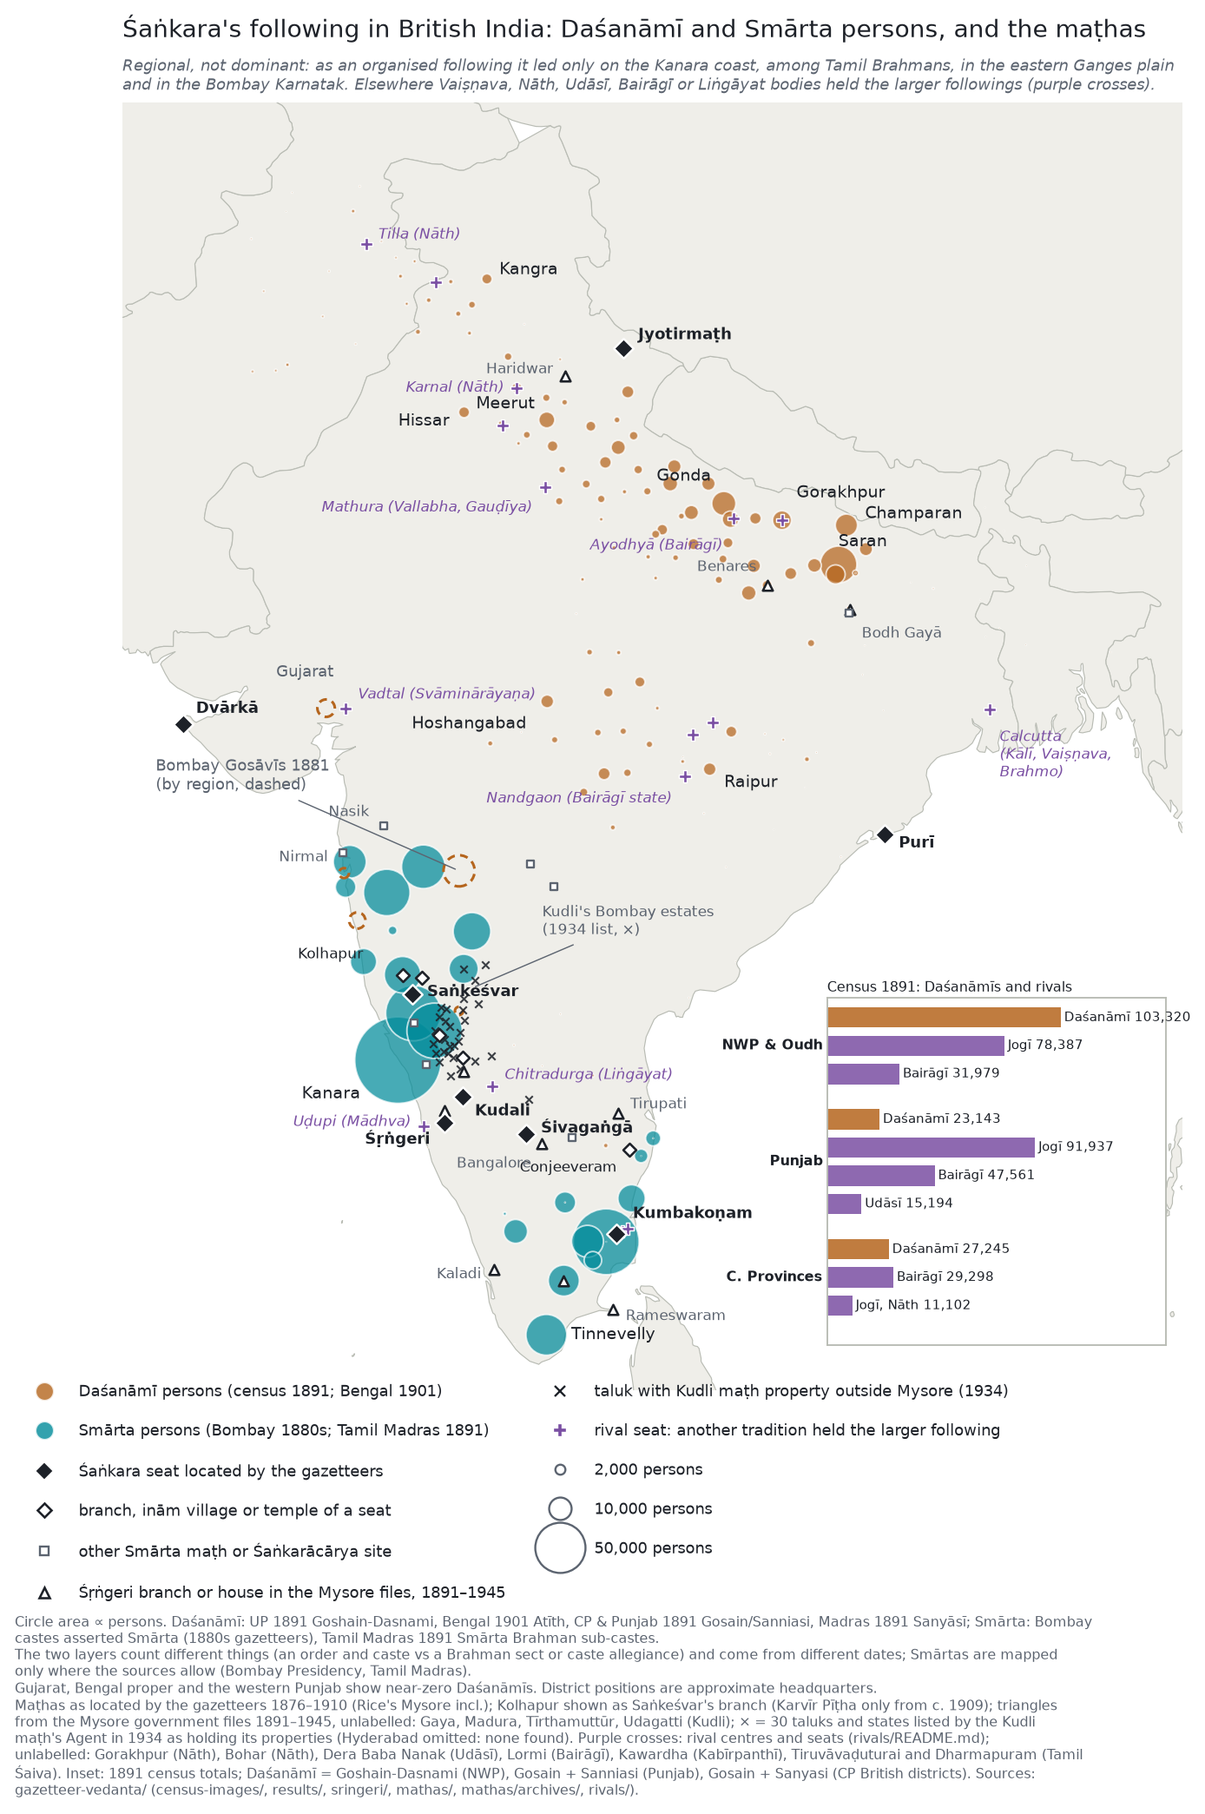
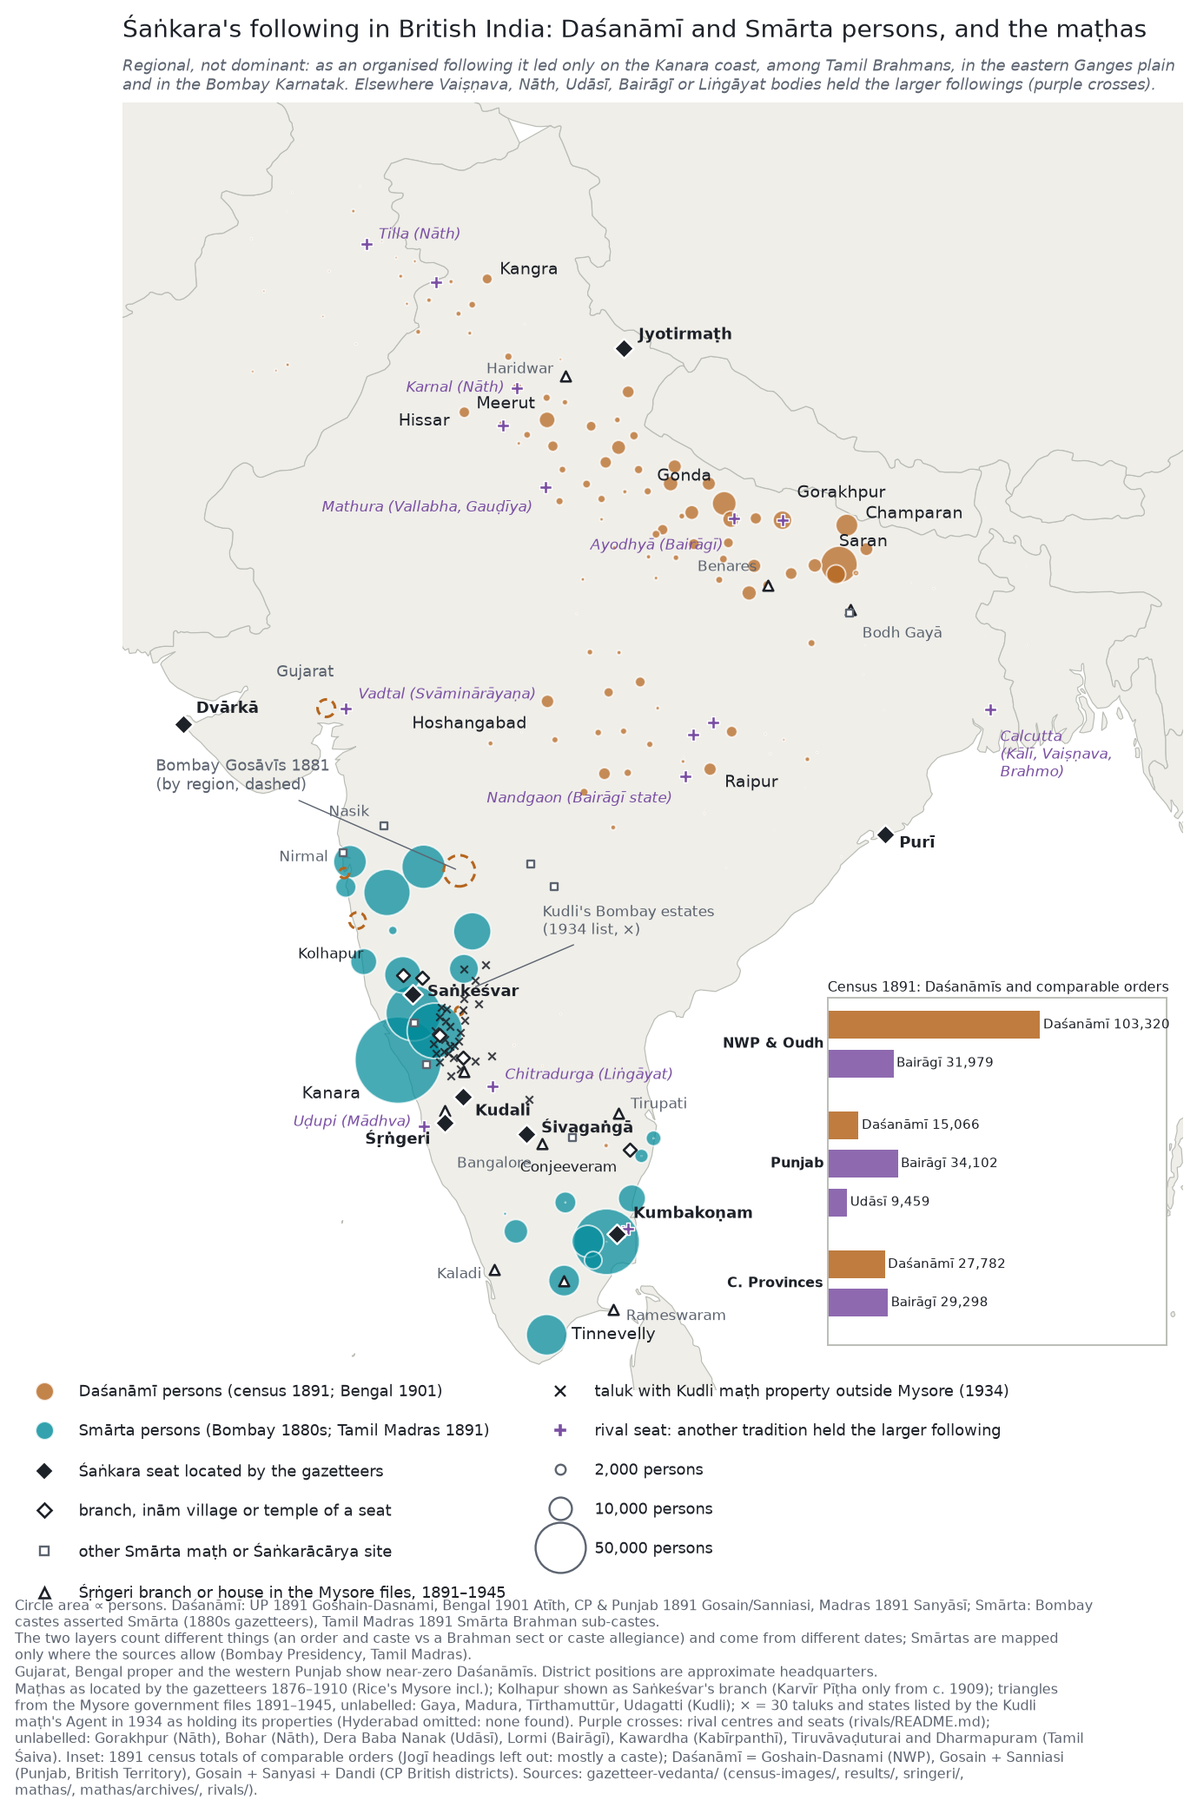
gazetteer-vedanta: the census 'Jogī' heading is no longer compared with the Daśanāmīs (study 2: mostly a householder caste, half Muslim in the Punjab; the Nāth order cannot be separated from it). Evidence 3 table on the page and in SYNTHESIS.md compares only orders of the same kind (Bairāgī, Udāsī),

diff --git a/gazetteer-vedanta/SYNTHESIS.html b/gazetteer-vedanta/SYNTHESIS.html
@@ -146,7 +146,7 @@ code{font-size:.85em}
   </table></div>
   <figure class="map">
     <a href="map/combined_map.png"><img src="map/combined_map.png" alt="Map of British India. Ochre circles for Daśanāmī persons form a belt across the Ganges plain, largest in eastern UP and Bihar, thin in the Central Provinces and the Punjab. Teal circles for Smārta persons cluster on the Bombay Konkan and Karnatak, largest in Kanara and Dharwar, and in the Tamil delta. Diamonds mark the Śaṅkara seats; crosses mark Kudli's estates and the rival seats." loading="lazy"></a>
-    <figcaption>All six regions on one map; circle area is proportional to persons. <em class="ochre">Daśanāmīs</em> come from the census (UP, Punjab, CP and Madras 1891; Bengal 1901; Bombay 1881 by region only, dashed). <em class="teal">Smārtas</em> come from Bombay castes the gazetteers call Smārta and from Tamil Smārta Brahman sub-castes (1891); they are mapped only where the sources allow. Black diamonds mark the Śaṅkara seats, open diamonds their branches and inām villages, triangles Śṛṅgeri’s branch maṭhs in the Mysore files. Small crosses mark the 30 taluks and states where the Kudli maṭh held property in 1934. Purple crosses mark the rival seats named below. The inset compares the 1891 census totals for the Daśanāmīs, Jogīs, Bairāgīs and Udāsīs. Positions are approximate district headquarters.</figcaption>
+    <figcaption>All six regions on one map; circle area is proportional to persons. <em class="ochre">Daśanāmīs</em> come from the census (UP, Punjab, CP and Madras 1891; Bengal 1901; Bombay 1881 by region only, dashed). <em class="teal">Smārtas</em> come from Bombay castes the gazetteers call Smārta and from Tamil Smārta Brahman sub-castes (1891); they are mapped only where the sources allow. Black diamonds mark the Śaṅkara seats, open diamonds their branches and inām villages, triangles Śṛṅgeri’s branch maṭhs in the Mysore files. Small crosses mark the 30 taluks and states where the Kudli maṭh held property in 1934. Purple crosses mark the rival seats named below. The inset compares the 1891 census totals for the Daśanāmīs, Bairāgīs and Udāsīs. Positions are approximate district headquarters.</figcaption>
   </figure>
   <p class="src">Why the tradition can look dominant: Advaita was the philosophy of the learned (“Vedantism … almost exclusively prevails” in Benares, 1909), the four-seat scheme made it pan-Indian in name, and “Smārta” and “Śaiva” were broad default labels. The 1901 Bombay census puts “Shaiv or Smart” at nearly 3,000,000, but that is a sect label, not allegiance to a seat.</p>
 </section>
@@ -154,20 +154,20 @@ code{font-size:.85em}
 <section>
   <div class="step">Evidence 3 · How many</div>
   <h2>The census numbers, and the rivals in the same tables</h2>
-  <p>No census measured allegiance to a seat. What the censuses did count were the Daśanāmī orders and the other ascetic orders, often in the same table. Each figure below was read from the page images and checked against the printed totals.</p>
+  <p>No census measured allegiance to a seat. What the censuses did count were the Daśanāmī orders and the other ascetic orders, often in the same table. The table compares the Daśanāmīs only with orders of the same kind: renunciants with married, landholding offshoots. Each figure below was read from the page images and checked against the printed totals.</p>
   <div class="tablewrap"><table>
-    <thead><tr><th>Census</th><th>Daśanāmī</th><th>Rival orders in the same table</th></tr></thead>
+    <thead><tr><th>Census</th><th>Daśanāmī</th><th>Comparable orders in the same table</th></tr></thead>
     <tbody>
-      <tr><td>NWP and Oudh 1891</td><td class="num">103,320</td><td class="num">Jogī 78,387; Bairāgī 31,979</td></tr>
-      <tr><td>Punjab 1891 (British Territory)</td><td class="num">Gosain 9,903; Sanniasi 5,163</td><td class="num">“Jogi &amp; Rawal” 75,469 (36,718 of them Muslim); Bairāgī 34,102; Udāsī 9,459</td></tr>
-      <tr><td>Central Provinces 1891</td><td class="num">Gosain 24,796</td><td class="num">Bairāgī 29,298; Jogī 6,094; Nāth 5,008</td></tr>
+      <tr><td>NWP and Oudh 1891</td><td class="num">103,320</td><td class="num">Bairāgī 31,979</td></tr>
+      <tr><td>Punjab 1891 (British Territory)</td><td class="num">Gosain 9,903; Sanniasi 5,163</td><td class="num">Bairāgī 34,102; Udāsī 9,459</td></tr>
+      <tr><td>Central Provinces 1891</td><td class="num">Gosain 24,796; Sanyāsī 2,449; Daṇḍī 537</td><td class="num">Bairāgī 29,298</td></tr>
       <tr><td>Bengal 1901</td><td class="num">Atīth 50,042</td><td>“Gosain” 29,534, a mixed column, largely Vaiṣṇava</td></tr>
       <tr><td>Tamil Madras 1891</td><td class="num">Smārta 47.6% of Brahmans</td><td class="num">Aiyaṅgār (Śrīvaiṣṇava) 22.7%</td></tr>
     </tbody>
   </table></div>
   <ul class="list">
-    <li><strong>The Bairāgīs outnumber the Daśanāmīs</strong> in the Punjab and the Central Provinces. In the whole Punjab province, native states included, the Udāsīs (15,194) also exceed the Gosains (13,344).</li>
-    <li><strong>“Jogī” is the largest heading in the north, but it is not a body of Nāth ascetics.</strong> In the Punjab about half of it was Muslim. In the UP the gazetteers describe Jogīs more often as a householder caste (see the companion study, <i>Yogis in the Gazetteers</i>).</li>
+    <li><strong>The Bairāgīs outnumber the Daśanāmīs</strong> in the Punjab and the Central Provinces; only in the NWP and Oudh are the Daśanāmīs ahead, by about three to one. In the whole Punjab province, native states included, the Udāsīs (15,194) also exceed the Gosains (13,344).</li>
+    <li><strong>The census “Jogī” is left out.</strong> It is the largest of these headings in the north, but it was mostly a householder caste, not the Nāth order: in the Punjab about half of it was Muslim, and in the UP the gazetteers describe Jogīs more often as a caste (see the companion study, <i>Yogis in the Gazetteers</i>). The Nāth order cannot be separated from it, so it is not compared here.</li>
     <li><strong>The headings are loose and include householders on both sides.</strong> The 1891 NWP report says enumerators used “Goshain, Bairagi, Jogi, Saniyasi” interchangeably. In 1891 Azamgarh returns no Gosāins but 5,764 Jogīs, where in 1881 it had 2,186 Gosāins and 3,456 Atīths.</li>
     <li><strong>The Tamil figure needed reconstruction.</strong> The census row labelled “Smarta” has only 7,021 persons, because Tamil Smārtas were returned under sub-caste names; the 48% counts the sub-castes Thurston lists as Smārta.</li>
   </ul>

diff --git a/gazetteer-vedanta/map/plot_combined.py b/gazetteer-vedanta/map/plot_combined.py
@@ -260,11 +260,13 @@ ax.annotate("Bombay Gosāvīs 1881\n(by region, dashed)", (75.6, 19.0), xytext=(
 
 ax.annotate("Gujarat", (72.4, 22.6), xytext=(71.2, 23.3), fontsize=7.5, color=MUTED, zorder=6)
 # Inset: census 1891 totals of the Daśanāmīs and rival ascetic orders (census-images/README.md, "Rival orders").
-# Daśanāmī = Goshain-Dasnami (NWP), Gosain + Sanniasi (Punjab, whole province), Gosain + Sanyasi (CP British districts).
+# Daśanāmī = Goshain-Dasnami (NWP), Gosain + Sanniasi (Punjab, British Territory), Gosain + Sanyasi + Dandigan + Dandi
+# (CP British districts). Only comparable orders (renunciants with married, landholding offshoots): the Jogī and Nāth
+# headings are left out, since in these tables "Jogi" was mostly a householder caste (yoga-gazetteers, section 2).
 RIVAL_TOTALS = [
-    ("NWP & Oudh", [("Daśanāmī", 103320), ("Jogī", 78387), ("Bairāgī", 31979)]),
-    ("Punjab", [("Daśanāmī", 23143), ("Jogī", 91937), ("Bairāgī", 47561), ("Udāsī", 15194)]),
-    ("C. Provinces", [("Daśanāmī", 27245), ("Bairāgī", 29298), ("Jogī, Nāth", 11102)]),
+    ("NWP & Oudh", [("Daśanāmī", 103320), ("Bairāgī", 31979)]),
+    ("Punjab", [("Daśanāmī", 15066), ("Bairāgī", 34102), ("Udāsī", 9459)]),
+    ("C. Provinces", [("Daśanāmī", 27782), ("Bairāgī", 29298)]),
 ]
 ins = ax.inset_axes([0.665, 0.035, 0.32, 0.27])
 ins.set_facecolor("white")
@@ -276,11 +278,11 @@ for prov, bars in RIVAL_TOTALS:
         yy -= 1
     ins.text(-2000, yy + len(bars) / 2 + 0.5, prov, ha="right", va="center", fontsize=6.8, color=INK, fontweight="bold")
     yy -= 0.6
-ins.set_xlim(0, 150000); ins.set_ylim(yy + 0.2, 0.7)
+ins.set_xlim(0, 165000); ins.set_ylim(yy + 0.5, 0.7)
 ins.set_xticks([]); ins.set_yticks([])
 for sp in ins.spines.values():
     sp.set_color(EDGE)
-ins.set_title("Census 1891: Daśanāmīs and rivals", fontsize=6.8, color=INK, loc="left", pad=3)
+ins.set_title("Census 1891: Daśanāmīs and comparable orders", fontsize=6.8, color=INK, loc="left", pad=3)
 ax.set_xlim(67.5, 93.0); ax.set_ylim(7.5, 36.0); ax.set_aspect(1 / 0.92)
 ax.set_xticks([]); ax.set_yticks([])
 for s in ax.spines.values():
@@ -312,7 +314,7 @@ import textwrap
 FOOT = ("Circle area ∝ persons. Daśanāmī: UP 1891 Goshain-Dasnami, Bengal 1901 Atīth, CP & Punjab 1891 Gosain/Sanniasi, Madras 1891 Sanyāsī; Smārta: Bombay castes asserted Smārta (1880s gazetteers), Tamil Madras 1891 Smārta Brahman sub-castes.\nThe two layers count different things (an order and caste vs a Brahman sect "
          "or caste allegiance) and come from different dates; Smārtas are mapped only where the sources allow "
          "(Bombay Presidency, Tamil Madras).\nGujarat, Bengal proper and the western Punjab show near-zero Daśanāmīs. "
-         "District positions are approximate headquarters.\nMaṭhas as located by the gazetteers 1876–1910 (Rice's Mysore incl.); Kolhapur shown as Saṅkeśvar's branch (Karvīr Pīṭha only from c. 1909); triangles from the Mysore government files 1891–1945, unlabelled: Gaya, Madura, Tīrthamuttūr, Udagatti (Kudli); × = 30 taluks and states listed by the Kudli maṭh's Agent in 1934 as holding its properties (Hyderabad omitted: none found). Purple crosses: rival centres and seats (rivals/README.md); unlabelled: Gorakhpur (Nāth), Bohar (Nāth), Dera Baba Nanak (Udāsī), Lormi (Bairāgī), Kawardha (Kabīrpanthī), Tiruvāvaḍuturai and Dharmapuram (Tamil Śaiva). Inset: 1891 census totals; Daśanāmī = Goshain-Dasnami (NWP), Gosain + Sanniasi (Punjab), Gosain + Sanyasi (CP British districts). "
+         "District positions are approximate headquarters.\nMaṭhas as located by the gazetteers 1876–1910 (Rice's Mysore incl.); Kolhapur shown as Saṅkeśvar's branch (Karvīr Pīṭha only from c. 1909); triangles from the Mysore government files 1891–1945, unlabelled: Gaya, Madura, Tīrthamuttūr, Udagatti (Kudli); × = 30 taluks and states listed by the Kudli maṭh's Agent in 1934 as holding its properties (Hyderabad omitted: none found). Purple crosses: rival centres and seats (rivals/README.md); unlabelled: Gorakhpur (Nāth), Bohar (Nāth), Dera Baba Nanak (Udāsī), Lormi (Bairāgī), Kawardha (Kabīrpanthī), Tiruvāvaḍuturai and Dharmapuram (Tamil Śaiva). Inset: 1891 census totals of comparable orders (Jogī headings left out: mostly a caste); Daśanāmī = Goshain-Dasnami (NWP), Gosain + Sanniasi (Punjab, British Territory), Gosain + Sanyasi + Dandi (CP British districts). "
          "Sources: gazetteer-vedanta/ (census-images/, results/, sringeri/, mathas/, mathas/archives/, rivals/).")
 FOOT = "\n".join(textwrap.fill(par, 150) for par in FOOT.split("\n"))
 fig.text(0.02, 0.008, FOOT, fontsize=6.6, color=MUTED, va="bottom")

diff --git a/gazetteer-vedanta/census-images/README.md b/gazetteer-vedanta/census-images/README.md
@@ -22,7 +22,7 @@ not dominant**. These tables give the numbers behind it.
   - the Daśanāmīs are densest in eastern UP and Bihar (NWP 103,320 in 1891; Bengal Atīths 50,042 in 1901);
   - Smārtas are 48% of Tamil Brahmans (1891).
 - **Where it was a minority:**
-  - Jogīs (91,937) and Bairāgīs (47,561) far outnumber the Gosains and Sanniasis in the Punjab;
+  - Bairāgīs outnumber the Gosains and Sanniasis in the Punjab (34,102 against 15,066, British Territory);
   - Bairāgīs outnumber the Gosāins in the Central Provinces;
   - Bengal proper and Calcutta return almost no Sannyāsīs.
 - **The one presidency-wide Smārta figure** (Bombay 1901, "Shaiv or Smart" nearly 3,000,000) is a broad sect label,
@@ -81,7 +81,8 @@ not dominant**. These tables give the numbers behind it.
    - Gosain 9,903 (British territory): 91% in the Delhi division, Kangra and Simla (Hissar 2,318, Kangra
      1,912, Karnal 1,843).
    - Sanniasi 5,163, in a different belt: central Punjab (Hoshiarpur 825, Jalandhar 570, Amritsar 435).
-   - Both are dwarfed by Jogi & Rawal (75,469) and Bairagi (34,102).
+   - Both together are outnumbered by the Bairagis (34,102). The larger Jogi & Rawal heading (75,469) is mostly a
+     caste, not an order (see "Rival orders" below).
    - The sect table has almost no Śaṅkara labels: Smartak 123, Vedanti 232, Shankar Acharj 15.
 5. **Central Provinces 1891.**
    - Gosain 24,796, sub-divided Giri 9,333, Puri 6,050, Bharthi 1,412.
@@ -101,20 +102,22 @@ not dominant**. These tables give the numbers behind it.
 The tables read for the Daśanāmīs also count their rivals. All figures below are persons, recomputed from the TSVs
 in `results/`. The synthesis's "Evidence 3: how many" uses them.
 
-| province, census | Daśanāmī / Gosāin | rival orders in the same table |
+| province, census | Daśanāmī / Gosāin | comparable orders in the same table |
 |---|---|---|
-| NWP and Oudh, 1891 | Goshain–Dasnami 103,320 (plus 38,477 "unspecified" Goshains) | Jogī 78,387; Bairāgī 31,979; named Vaiṣṇava Goshains only 752 (Gauriya 432, Radhavallabhi 252, Brindabani 38, Gokulastha 30) |
-| Punjab, 1891 (whole province) | Gosain 13,344; Sanniasi 9,799 | Jogī-Rawal 91,937; Bairāgī 47,561; Udāsī 15,194 (all Faqirs 315,305) |
-| Central Provinces, 1891 (British districts) | Gosain 24,796; Sanyasi 2,449 | Bairāgī 29,298 (Ramanandi 7,731, Kabirpanthi 399); Jogī 6,094; Nāth 5,008; Aghori 36. Feudatory States: Bairāgī 6,712 against Gosain 1,038 |
+| NWP and Oudh, 1891 | Goshain–Dasnami 103,320 (plus 38,477 "unspecified" Goshains) | Bairāgī 31,979; named Vaiṣṇava Goshains only 752 (Gauriya 432, Radhavallabhi 252, Brindabani 38, Gokulastha 30) |
+| Punjab, 1891 (whole province) | Gosain 13,344; Sanniasi 9,799 | Bairāgī 47,561; Udāsī 15,194 (all Faqirs 315,305) |
+| Central Provinces, 1891 (British districts) | Gosain 24,796; Sanyasi 2,449; Dandigan 536; Dandi 1 | Bairāgī 29,298 (Ramanandi 7,731, Kabirpanthi 399); Aghori 36. Feudatory States: Bairāgī 6,712 against Gosain 1,038 |
 | Bengal, 1901 | Atīth 50,042 | "Gosain" 29,534: a mixed column, over half in Chota Nagpur, largely Vaiṣṇava gurus |
 | Madras Tamil division, 1891 | Smārta Brahman sub-castes 201,787 (47.6% of Brahmans) | Aiyaṅgār (Śrīvaiṣṇava) 96,127 (22.7%); Mādhva 2,650 |
 
+Not compared, though in the same tables: the Jogī headings (NWP Jogī 78,387; Punjab Jogī-Rawal 91,937, whole
+province; CP Jogī 6,094 and Nāth 5,008).
+
 What this shows:
-- **"Jogī" is the largest of these headings in the north, but it is not a body of Nāth ascetics.** In the Punjab
-  the heading is "Jogi & Rawal": 36,718 of its 75,469 (British Territory) were Musalmán. Hindu Jogīs (38,530)
-  outnumber Hindu Gosains and Sanniasis (14,254) about 2.7 to 1. The whole heading against Gosain and Sanniasi is
-  about 4 to 1. In the NWP the Jogīs come close to the Daśanāmīs, but the district gazetteers describe them more often
-  as a householder caste than as ascetics (`../../yoga-gazetteers/README.md`).
+- **The Jogī headings are left out because they are not a body of Nāth ascetics.** In the Punjab the heading is
+  "Jogi & Rawal": 36,718 of its 75,469 (British Territory) were Musalmán. In the NWP the district gazetteers describe
+  Jogīs more often as a householder caste than as ascetics (`../../yoga-gazetteers/README.md`). The Nāth order cannot be
+  separated from the caste in these tables, so the Daśanāmīs are compared only with the Bairāgīs and Udāsīs.
 - **The Bairāgīs are about a third of the Daśanāmīs in the NWP, and outnumber them in the Punjab and the CP.** In
   the CP Feudatory States they lead by more than six to one.
 - **The Udāsīs exceed the Gosāins in the Punjab.**

diff --git a/gazetteer-vedanta/SYNTHESIS.md b/gazetteer-vedanta/SYNTHESIS.md
@@ -75,20 +75,23 @@ allegiance to a seat).
 ## Evidence 3: how many — census numbers and rivals
 
 No census measured allegiance to a seat. The censuses counted the ascetic orders, often in one table (read from
-page images, reconciled with printed totals; `census-images/`).
+page images, reconciled with printed totals; `census-images/`). The table compares the Daśanāmīs only with
+orders of the same kind: renunciants with married, landholding offshoots.
 
-| Census | Daśanāmī | Rival orders in the same table |
+| Census | Daśanāmī | Comparable orders in the same table |
 |---|---|---|
-| NWP and Oudh 1891 | 103,320 | Jogī 78,387; Bairāgī 31,979 |
-| Punjab 1891 (British Territory) | Gosain 9,903; Sanniasi 5,163 | "Jogi & Rawal" 75,469 (36,718 Muslim); Bairāgī 34,102; Udāsī 9,459 |
-| Central Provinces 1891 | Gosain 24,796 | Bairāgī 29,298; Jogī 6,094; Nāth 5,008 |
+| NWP and Oudh 1891 | 103,320 | Bairāgī 31,979 |
+| Punjab 1891 (British Territory) | Gosain 9,903; Sanniasi 5,163 | Bairāgī 34,102; Udāsī 9,459 |
+| Central Provinces 1891 | Gosain 24,796; Sanyāsī 2,449; Daṇḍī 537 | Bairāgī 29,298 |
 | Bengal 1901 | Atīth 50,042 | "Gosain" 29,534, mixed, largely Vaiṣṇava |
 | Tamil Madras 1891 | Smārta 47.6% of Brahmans | Aiyaṅgār 22.7% |
 
-- The Bairāgīs outnumber the Daśanāmīs in the Punjab and the CP. In the whole Punjab province the Udāsīs (15,194)
+- The Bairāgīs outnumber the Daśanāmīs in the Punjab and the CP; only in the NWP and Oudh are the Daśanāmīs ahead,
+  by about three to one. In the whole Punjab province the Udāsīs (15,194)
   exceed the Gosains (13,344).
-- "Jogī" is the largest heading in the north but not a body of Nāth ascetics: about half Muslim in the Punjab, and in
-  the UP described more often as a householder caste (`../yoga-gazetteers/`).
+- The census "Jogī" is left out. It is the largest heading in the north, but mostly a householder caste, not the Nāth
+  order: about half Muslim in the Punjab, and in the UP described more often as a caste (`../yoga-gazetteers/`). The
+  Nāth order cannot be separated from it.
 - The headings are loose and include householders on both sides: "Goshain, Bairagi, Jogi, Saniyasi" were used
   interchangeably (NWP 1891); Azamgarh's 1881 Gosāins and Atīths appear as Jogīs in 1891.
 - The Tamil 48% counts the sub-castes Thurston lists as Smārta; the census row "Smarta" has only 7,021.

diff --git a/gazetteer-vedanta/README.md b/gazetteer-vedanta/README.md
@@ -67,9 +67,10 @@ The synthesis presents five kinds of evidence:
 | 5. Change | three dates: 1866–1890, 1900–1918, 1954–1989 | regional reports; `revised/README.md` |
 
 Two cautions carried through the study:
-- **Census headings are not followings.** "Jogī" is the largest heading in the north, but it is not a body of Nāth
-  ascetics: in the Punjab "Jogī & Rawal" was about half Muslim (36,718 of 75,469 in British Territory, 1891), and in
-  the UP the gazetteers describe Jogīs more often as a householder caste (`../yoga-gazetteers/`). The headings
+- **Census headings are not followings.** The census "Jogī" is left out of every comparison of orders. It is the
+  largest heading in the north, but mostly a householder caste, not the Nāth order: in the Punjab "Jogī & Rawal" was
+  about half Muslim (36,718 of 75,469 in British Territory, 1891), and in the UP the gazetteers describe Jogīs more
+  often as a caste (`../yoga-gazetteers/`). The Daśanāmīs are compared only with the Bairāgīs and Udāsīs. The headings
   include householders on both sides, and enumerators used "Goshain, Bairagi, Jogi, Saniyasi" interchangeably (NWP
   1891).
 - **Rival houses were as rich or richer** where both are described (Tiruvāvaḍuturai Rs 2 lakhs a year against
